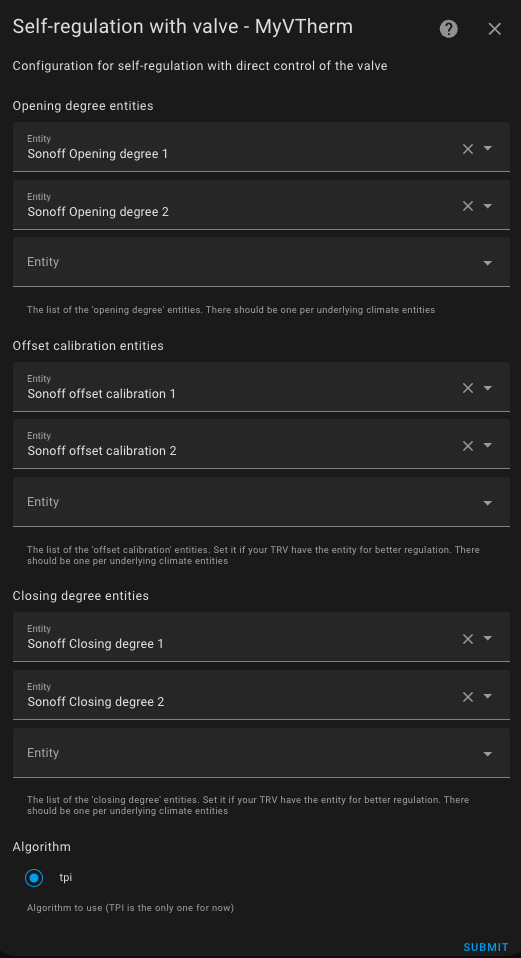
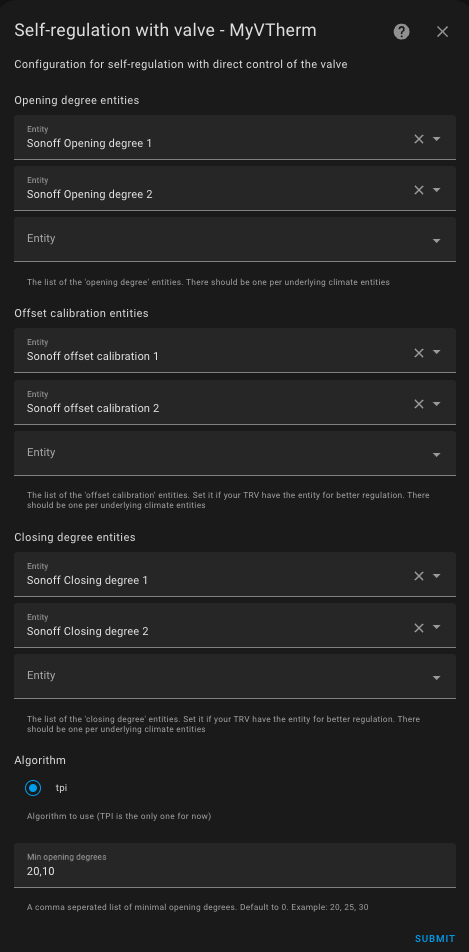
Feature #722 - Add a minimum opening degree for valve regulation

diff --git a/documentation/fr/self-regulation.md b/documentation/fr/self-regulation.md
@@ -32,7 +32,8 @@ Elle permet de configurer les entités de contrôle de la vanne :
 Vous devez donner :
 1. autant d'entités de contrôle d'ouverture de la vanne qu'il y a de sous-jacents et dans le même odre. Ces paramètres sont obligatoires,
 2. autant d'entités de calibrage du décalage de température qu'il y a de sous-jacents et dans le même ordre. Ces paramètres sont facultatifs ; ils doivent être tous founis ou aucun,
-3. autant d'entités de de contrôile du taux de fermture qu'il y a de sous-jacents et dans le même ordre. Ces paramètres sont facultatifs ; ils doivent être tous founis ou aucun
+3. autant d'entités de de contrôile du taux de fermture qu'il y a de sous-jacents et dans le même ordre. Ces paramètres sont facultatifs ; ils doivent être tous founis ou aucun,
+4. une liste de valeurs minimales d'ouverture de la vanne lorsqu'elle doit être ouverte. Ce champ est une liste d'entier. Si la vanne doit être ouverte, elle le sera au minimum avec cette valeur d'ouverture. Cela permet de laisser passer suffisamment d'eau lorsqu'elle doit être ouverte.
 
 L'algorithme de calcul du taux d'ouverture est basé sur le _TPI_ qui est décrit [ici](algorithms.md). C'est le même algorithme qui est utilisé pour les _VTherm_ `over_switch` et `over_valve`.
 

diff --git a/documentation/en/self-regulation.md b/documentation/en/self-regulation.md
@@ -32,6 +32,7 @@ You need to provide:
 1. As many valve opening control entities as there are underlying devices, and in the same order. These parameters are mandatory.
 2. As many temperature calibration entities as there are underlying devices, and in the same order. These parameters are optional; they must either all be provided or none.
 3. As many valve closure control entities as there are underlying devices, and in the same order. These parameters are optional; they must either all be provided or none.
+4. A list of minimum opening values for the valve when it needs to be opened. This field is a list of integers. If the valve needs to be opened, it will be opened at a minimum of this opening value. This allows enough water to pass through when it needs to be opened.
 
 The opening rate calculation algorithm is based on the _TPI_ algorithm described [here](algorithms.md). This is the same algorithm used for _VTherms_ `over_switch` and `over_valve`.
 
